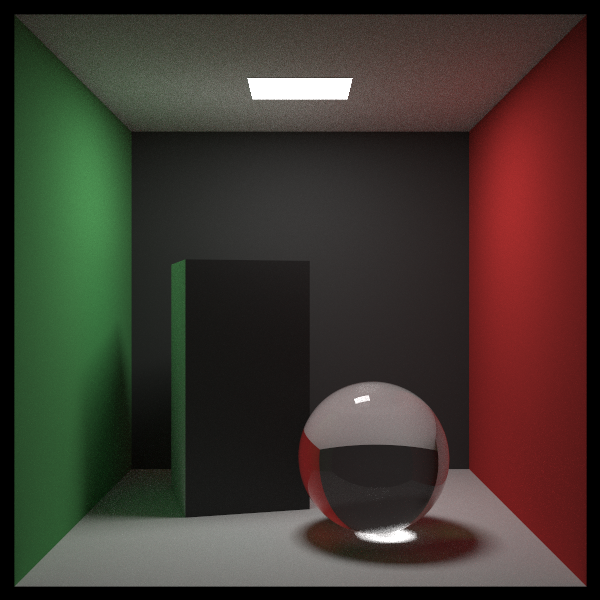
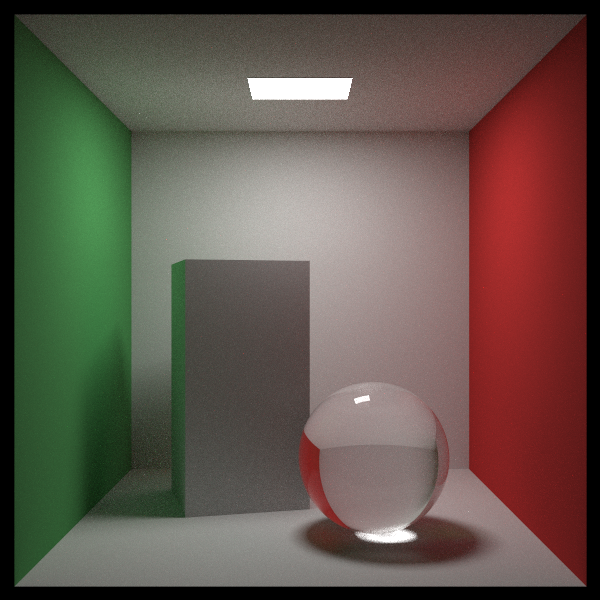
fix cosine from dot product calculation by normalizing vectors

diff --git a/src/renderer/mod.rs b/src/renderer/mod.rs
@@ -101,11 +101,14 @@ impl RecursiveTracer {
 
             let scattered = Ray::new(rec.point, p.generate(), ray.time);
             let pdf_val = p.value(scattered.direction);
+            if pdf_val > 0.0 {
+                let scattering_pdf = rec.material.scattering_pdf(&ray, &rec, &scattered);
 
-            let scattering_pdf = rec.material.scattering_pdf(&ray, &rec, &scattered);
-
-            let colour = self.ray_colour(&scattered, depth - 1);
-            emission + sr.attenuation * scattering_pdf * colour / pdf_val
+                let colour = self.ray_colour(&scattered, depth - 1);
+                emission + sr.attenuation * scattering_pdf * colour / pdf_val
+            } else {
+                emission
+            }
         } else {
             emission
         }

diff --git a/src/object/xy_rect.rs b/src/object/xy_rect.rs
@@ -136,9 +136,10 @@ impl Hittable for XYrect {
             // So distance^2 = rec.t * rec.t * v.length_squared().
             let v_len_sq = v.length_squared();
             let v_len = v_len_sq.sqrt();
+            let v_unit = v / v_len;
 
             let distance_squared = rec.t * rec.t * v_len_sq;
-            let cosine = v.dot(rec.normal).abs() / v_len;
+            let cosine = v_unit.dot(rec.normal.unit_vector()).abs();
 
             distance_squared / (cosine * self.area)
         } else {

diff --git a/src/object/xz_rect.rs b/src/object/xz_rect.rs
@@ -136,9 +136,10 @@ impl Hittable for XZrect {
             // So distance^2 = rec.t * rec.t * v.length_squared().
             let v_len_sq = v.length_squared();
             let v_len = v_len_sq.sqrt();
+            let v_unit = v / v_len;
 
             let distance_squared = rec.t * rec.t * v_len_sq;
-            let cosine = v.dot(rec.normal).abs() / v_len;
+            let cosine = v_unit.dot(rec.normal.unit_vector()).abs();
 
             distance_squared / (cosine * self.area)
         } else {

diff --git a/src/object/yz_rect.rs b/src/object/yz_rect.rs
@@ -136,9 +136,10 @@ impl Hittable for YZrect {
             // So distance^2 = rec.t * rec.t * v.length_squared().
             let v_len_sq = v.length_squared();
             let v_len = v_len_sq.sqrt();
+            let v_unit = v / v_len;
 
             let distance_squared = rec.t * rec.t * v_len_sq;
-            let cosine = v.dot(rec.normal).abs() / v_len;
+            let cosine = v_unit.dot(rec.normal.unit_vector()).abs();
 
             distance_squared / (cosine * self.area)
         } else {

diff --git a/src/material/lambertian.rs b/src/material/lambertian.rs
@@ -79,7 +79,9 @@ impl Material for Lambertian {
     /// * `rec` - The `HitRecord`.
     /// * `scattered` - The scattered ray.
     fn scattering_pdf(&self, _ray_in: &Ray, rec: &HitRecord, scattered: &Ray) -> Float {
-        let cosine = rec.normal.dot(scattered.direction.unit_vector());
+        let n = rec.normal.unit_vector();
+        let v = scattered.direction.unit_vector();
+        let cosine = n.dot(v);
         if cosine < 0.0 {
             0.0
         } else {
